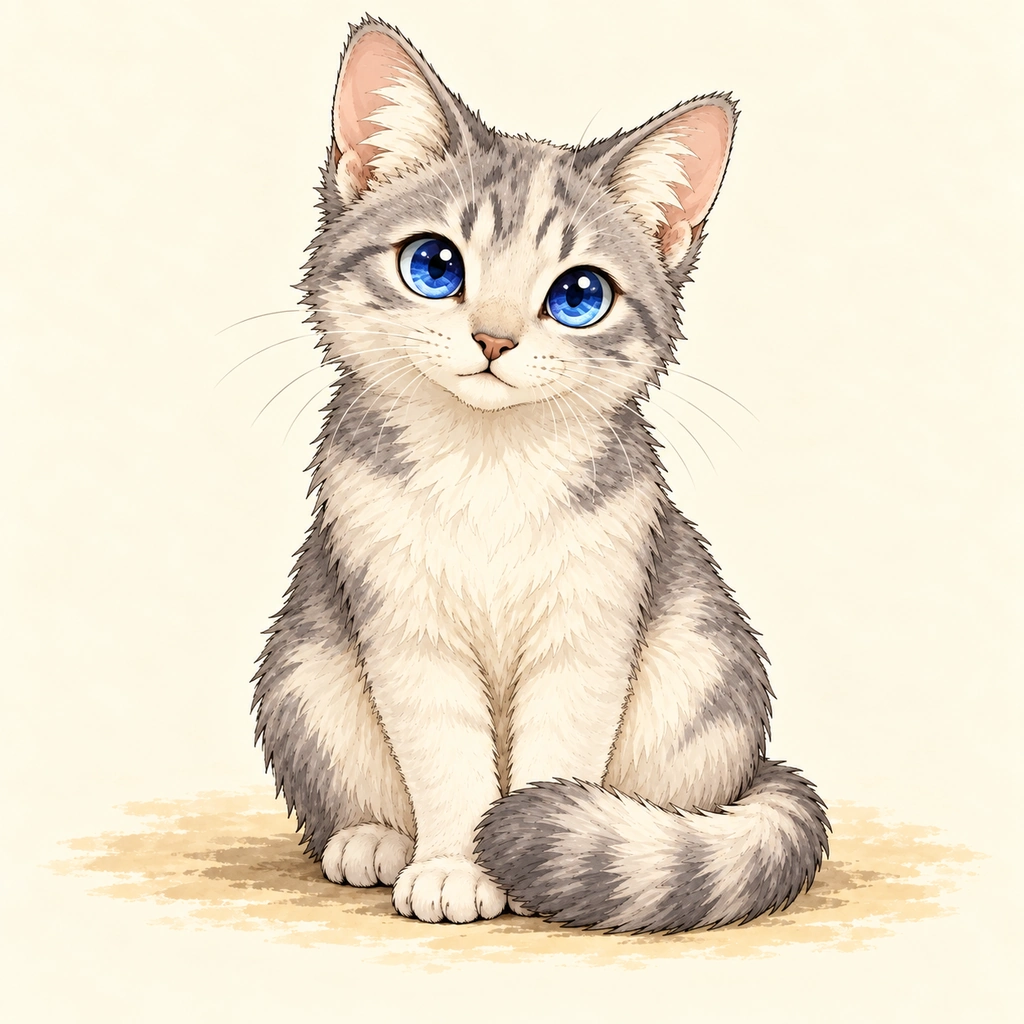
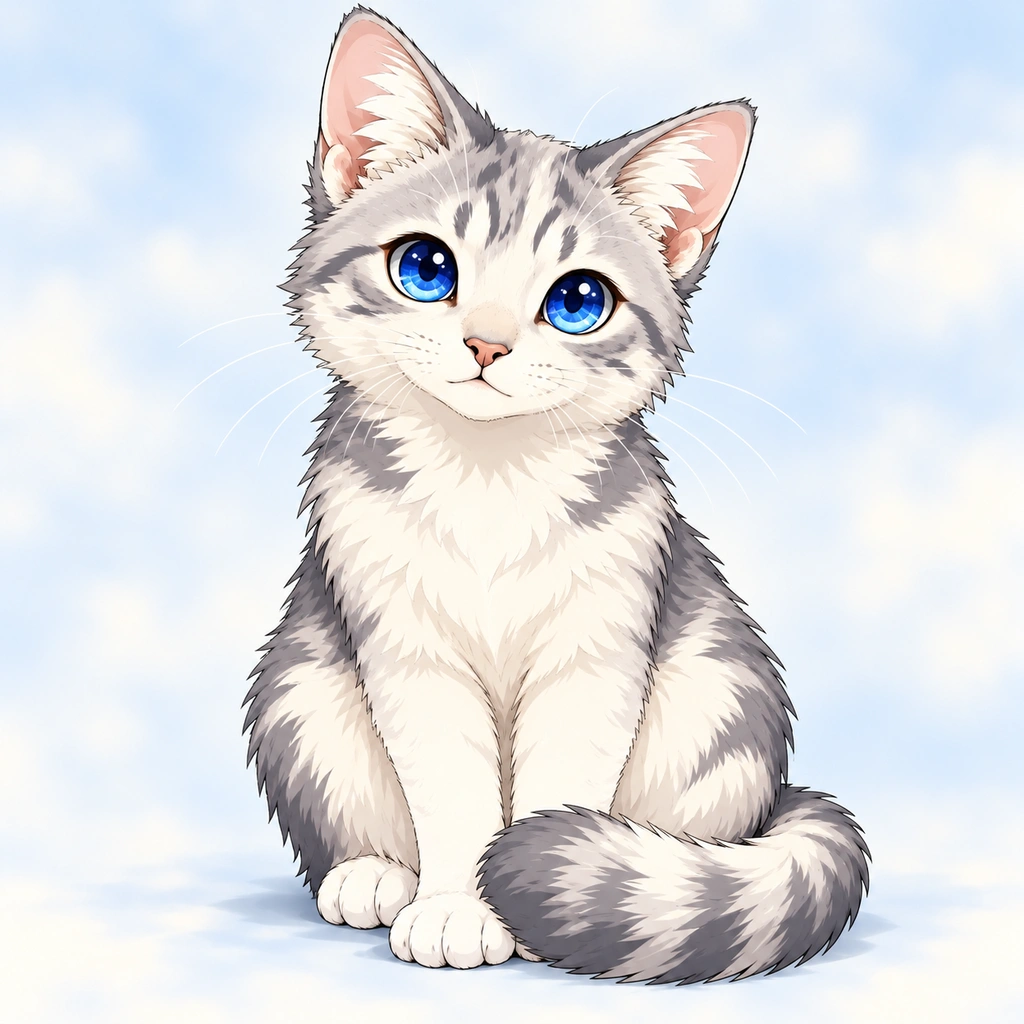
VT2: el DM elige la apariencia de los Númenes; variantes labrador blanco, salchicha y Senku anime (#724)
* Permitir al DM cambiar la apariencia (variante) de los Númenes de los jugadores

* VT2: variantes de Númen labrador blanco y salchicha café; Senku en estilo anime (Codex)

Claude-Session: https://claude.ai/code/session_014TMP2KAbFpwRbP3qr86b5q

---------

diff --git a/vintage-telnet-2/client/app.js b/vintage-telnet-2/client/app.js
@@ -698,8 +698,17 @@ function masterNumenes(character){
  if(character.status!=='approved')return null;
  const numenes=list(character.numenes);
  return el('section',{'aria-label':`Númenes de ${character.name}`},el('h3',{},'Númenes'),
-  ...numenes.map(n=>el('div',{class:'numen-heading'},numenArt(n,{class:'species-thumbnail',loading:'lazy'}),
-   el('div',{},el('strong',{},n.name),subtitle(`${n.species_name||'Compañero Númen'} · ${n.active?'En viaje (activo)':'En el refugio'} · ${n.mood}`)))),
+  ...numenes.map(n=>{
+   const variantChoices=[...new Set([...list(n.variants),...(n.variant?[n.variant]:[])])];
+   return el('div',{class:'numen-heading'},numenArt(n,{class:'species-thumbnail',loading:'lazy'}),
+    el('div',{},el('strong',{},n.name),subtitle(`${n.species_name||'Compañero Númen'} · ${n.active?'En viaje (activo)':'En el refugio'} · ${n.mood}`)),
+    el('label',{class:'field'},'Apariencia',el('select',{name:'variant',disabled:busy,'aria-label':`Apariencia de ${n.name}`,onchange:async event=>{
+     const variant=event.currentTarget.value;busy=true;
+     try{await api('/api/master/numen/variant',{character_id:character.id,numen_id:n.id,variant});masterSheets.delete(character.id);await loadMaster();}
+     catch(error){message(error.message,true);}
+     finally{busy=false;render();}
+    }},el('option',{value:'',selected:!n.variant},'Original'),...variantChoices.map(v=>el('option',{value:v,selected:n.variant===v},v)))));
+  }),
   numenes.length?null:subtitle('Sin Númenes'));
 }
 function masterVaisorkSection(){

diff --git a/vintage-telnet-2/server/app.py b/vintage-telnet-2/server/app.py
@@ -15,8 +15,20 @@ from .store import Store
 from .content import Content
 from .engine import Engine, RuleError
 from . import mechanics
+import re
 
 ROOT=Path(__file__).resolve().parents[1]
+
+def numen_variants_for_model(model):
+    if not model or not isinstance(model,str):return []
+    art_dir=ROOT/'client'/'art'/'numenes'
+    if not art_dir.is_dir():return []
+    pattern=re.compile(rf'^numen-{re.escape(model)}-([a-z0-9-]+)-v1\.webp$')
+    variants=[]
+    for path in sorted(art_dir.glob(f'numen-{model}-*-v1.webp')):
+        m=pattern.match(path.name)
+        if m:variants.append(m.group(1))
+    return variants
 
 def create_app(config=None):
     app=Flask(__name__,static_folder=None)
@@ -348,7 +360,7 @@ def create_app(config=None):
             for row in rows:
                 if row['status']=='approved':
                     numenes=numenes_by_id[row['id']]
-                    row['numenes']=[{key:n.get(key) for key in ('id','model','variant','name','species_name')} | {'active':n.get('id')==numenes.get('active'),'mood':mechanics.numen_mood(n,now)} for n in numenes.get('bonded',[])]
+                    row['numenes']=[{key:n.get(key) for key in ('id','model','variant','name','species_name')} | {'active':n.get('id')==numenes.get('active'),'mood':mechanics.numen_mood(n,now),'variants':numen_variants_for_model(n.get('model'))} for n in numenes.get('bonded',[])]
                 row['movements']=movement_counts.get(row['id'],0)
                 row['places_visited']=places.get(row['id'],0)
             ficha=dict(engine().content.vaisork_ficha)
@@ -515,4 +527,35 @@ def create_app(config=None):
             db.execute('UPDATE accounts SET password_hash=? WHERE id=?',(generate_password_hash(password),row['account_id']))
             db.execute('INSERT INTO audit(actor,action,target,at) VALUES(?,?,?,?)',('master','account_password_change',str(row['account_id']),clock()))
         return jsonify(changed=True,csrf_token=csrf())
+
+    @app.post('/api/master/numen/variant')
+    def master_numen_variant():
+        if not session.get('master'):raise RuleError('Esta decisión pertenece al DM.',403)
+        data=payload();cid=data.get('character_id');numen_id=data.get('numen_id');variant=data.get('variant')
+        if type(cid) is not int:raise RuleError('Indica una identidad de personaje válida.')
+        if not isinstance(numen_id,str) or not numen_id.strip():raise RuleError('Indica una identidad de Númen válida.')
+        numen_id=numen_id.strip()
+        if variant is None:variant=''
+        elif isinstance(variant,str):variant=variant.strip()
+        else:raise RuleError('La variante debe ser una cadena de texto.')
+        with store.transaction() as db:
+            char=store.load(db.execute('SELECT * FROM characters WHERE id=?',(cid,)).fetchone())
+            if not char:raise RuleError('No existe ese personaje.',404)
+            numenes=char['state'].setdefault('numenes',{'active':None,'bonded':[],'encounters':{}})
+            bonded=numenes.setdefault('bonded',[])
+            target=next((n for n in bonded if n.get('id')==numen_id),None)
+            if not target:raise RuleError('No se encontró el Númen indicado en este personaje.',404)
+            if not variant:
+                target.pop('variant',None)
+            else:
+                if not re.fullmatch(r'[a-z0-9-]+',variant):
+                    raise RuleError('La variante solo puede contener letras minúsculas, números y guiones.',400)
+                model=target.get('model','a')
+                art_file=ROOT/'client'/'art'/'numenes'/f'numen-{model}-{variant}-v1.webp'
+                if not art_file.is_file():
+                    raise RuleError(f'La apariencia "{variant}" no existe para este modelo de Númen.',400)
+                target['variant']=variant
+            store.save(db,char)
+            db.execute('INSERT INTO audit(actor,action,target,at) VALUES(?,?,?,?)',('master','numen_variant',str(cid),clock()))
+            return jsonify(ok=True,variant=target.get('variant'),character_id=cid,numen_id=numen_id,csrf_token=csrf())
     return app

diff --git a/vintage-telnet-2/tests/test_master_tools.py b/vintage-telnet-2/tests/test_master_tools.py
@@ -103,3 +103,37 @@ class MasterToolsTests(unittest.TestCase):
   if options:self.assertEqual(self.manage('portrait',target=options[0]['id']).status_code,200)
   with self.store.transaction() as db:self.assertEqual(self.store.world(db)['encounters'],{'shared-test':{'hp':5}})
   for key in ('quests','bestiary','attributes','inventory'):self.assertEqual(before[key],self.raw()[key])
+ def test_master_numen_variant(self):
+  with self.store.transaction() as db:
+   char=self.store.load(db.execute('SELECT * FROM characters WHERE id=?',(self.cid,)).fetchone())
+   numen=mechanics.bond_numen(char['state'],'b','Sombra',123456)
+   self.store.save(db,char)
+  numen_id=numen['id']
+  st=self.dm.get('/api/master/state').json
+  char_row=next(c for c in st['approved'] if c['id']==self.cid)
+  self.assertEqual(char_row['numenes'][0]['variants'],['senku'])
+  self.assertIsNone(char_row['numenes'][0].get('variant'))
+  res_player=self.post(self.player,'/api/master/numen/variant',{'character_id':self.cid,'numen_id':numen_id,'variant':'senku'})
+  self.assertEqual(res_player.status_code,403)
+  res_bad=self.post(self.dm,'/api/master/numen/variant',{'character_id':self.cid,'numen_id':numen_id,'variant':'no-existe'})
+  self.assertEqual(res_bad.status_code,400)
+  self.assertEqual(res_bad.json['error'],'rule')
+  res_bad_chars=self.post(self.dm,'/api/master/numen/variant',{'character_id':self.cid,'numen_id':numen_id,'variant':'SENKU_BAD!'})
+  self.assertEqual(res_bad_chars.status_code,400)
+  res_ok=self.post(self.dm,'/api/master/numen/variant',{'character_id':self.cid,'numen_id':numen_id,'variant':'senku'})
+  self.assertEqual(res_ok.status_code,200)
+  self.assertEqual(res_ok.json['variant'],'senku')
+  self.assertEqual(self.raw()['numenes']['bonded'][0]['variant'],'senku')
+  with self.store.transaction() as db:
+   audit=db.execute("SELECT * FROM audit WHERE action='numen_variant' AND target=?",(str(self.cid),)).fetchone()
+   self.assertIsNotNone(audit);self.assertEqual(audit['actor'],'master')
+  st=self.dm.get('/api/master/state').json
+  char_row=next(c for c in st['approved'] if c['id']==self.cid)
+  self.assertEqual(char_row['numenes'][0]['variant'],'senku')
+  res_clear=self.post(self.dm,'/api/master/numen/variant',{'character_id':self.cid,'numen_id':numen_id,'variant':''})
+  self.assertEqual(res_clear.status_code,200)
+  self.assertIsNone(res_clear.json['variant'])
+  self.assertIsNone(self.raw()['numenes']['bonded'][0].get('variant'))
+  st=self.dm.get('/api/master/state').json
+  char_row=next(c for c in st['approved'] if c['id']==self.cid)
+  self.assertIsNone(char_row['numenes'][0].get('variant'))

diff --git a/vintage-telnet-2/tests/test_vaisork.py b/vintage-telnet-2/tests/test_vaisork.py
@@ -188,7 +188,7 @@ class VaisorkTests(unittest.TestCase):
         self.assertEqual(character['numenes'], [{
             'id': companion['id'], 'model': 'b', 'variant': 'senku', 'name': 'Nube',
             'species_name': mechanics.NUMENES_MODELS['b']['species_name'],
-            'active': True, 'mood': 'con hambre'}])
+            'active': True, 'mood': 'con hambre', 'variants': ['senku']}])
         self.assertEqual(player.get('/api/master/state').status_code, 401)
         public_state = player.get('/api/state').json
         self.assertNotIn('approved', public_state)
